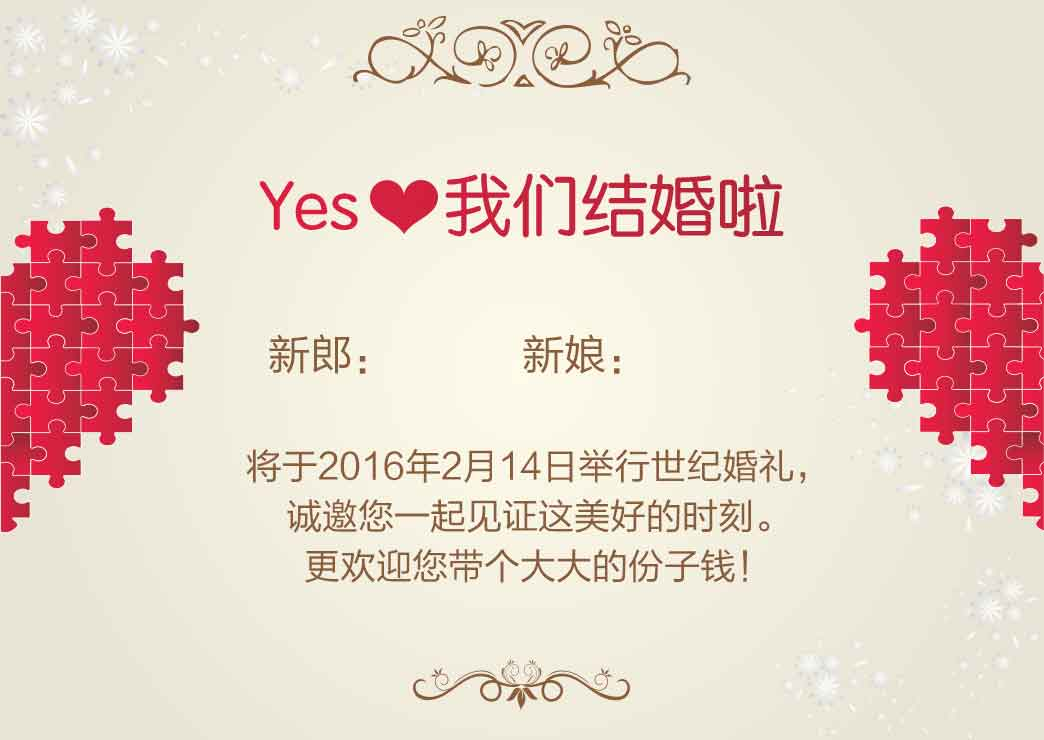
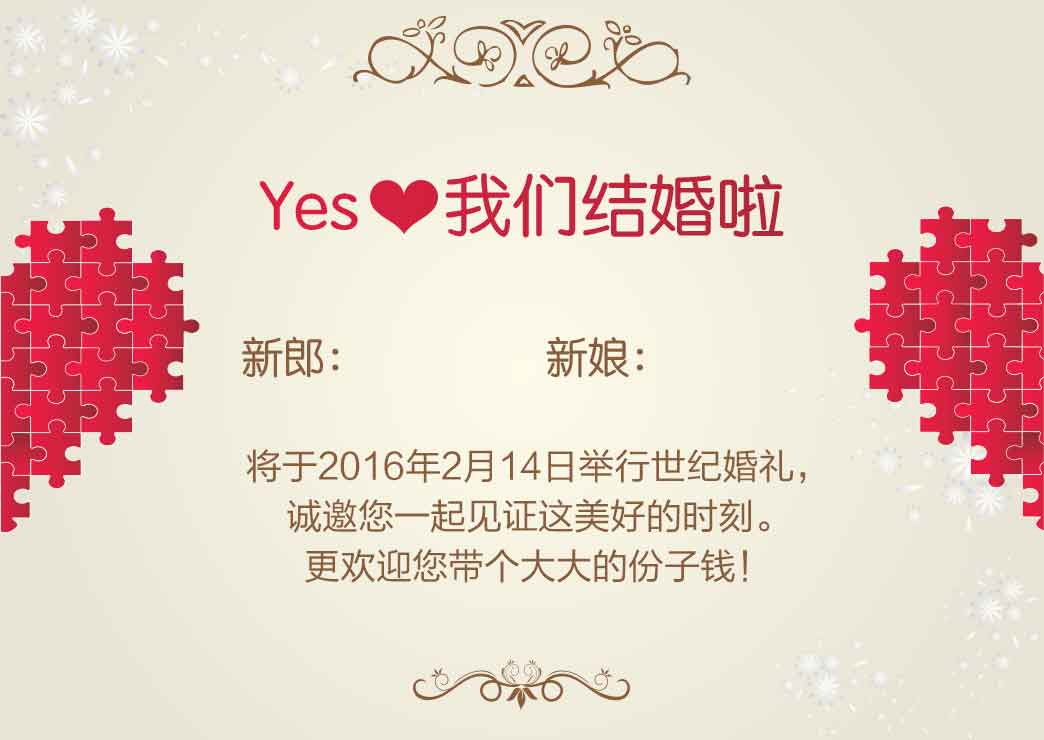
调整design7

Changed region(s): [[0.4904, 0.4351, 0.613, 0.5284], [0.2146, 0.4351, 0.3372, 0.5284]]

diff --git a/libs/design/7.js b/libs/design/7.js
@@ -9,14 +9,14 @@ module.exports = {
     "inputs": [{
         "key": "请输入新郎姓名",
         "value": "",
-        "x": "381",
+        "x": "359",
         "y": "371",
         "fillStyle": "#000000",
         "fontSize": "42"
     },{
         "key": "请输入新娘姓名",
         "value": "",
-        "x": "634",
+        "x": "664",
         "y": "371",
         "fillStyle": "#000000",
         "fontSize": "42"

diff --git a/libs/test.js b/libs/test.js
@@ -28,11 +28,11 @@ createDesign({
   ]
 })
 
-createDesign({
-  objectId: 'xxxx',
-  designId: '6',
-  inputs: [
-    'Jack','jack2'
-  ]
-})
+// createDesign({
+//   objectId: 'xxxx',
+//   designId: '6',
+//   inputs: [
+//     'Jack','jack2'
+//   ]
+// })
 
